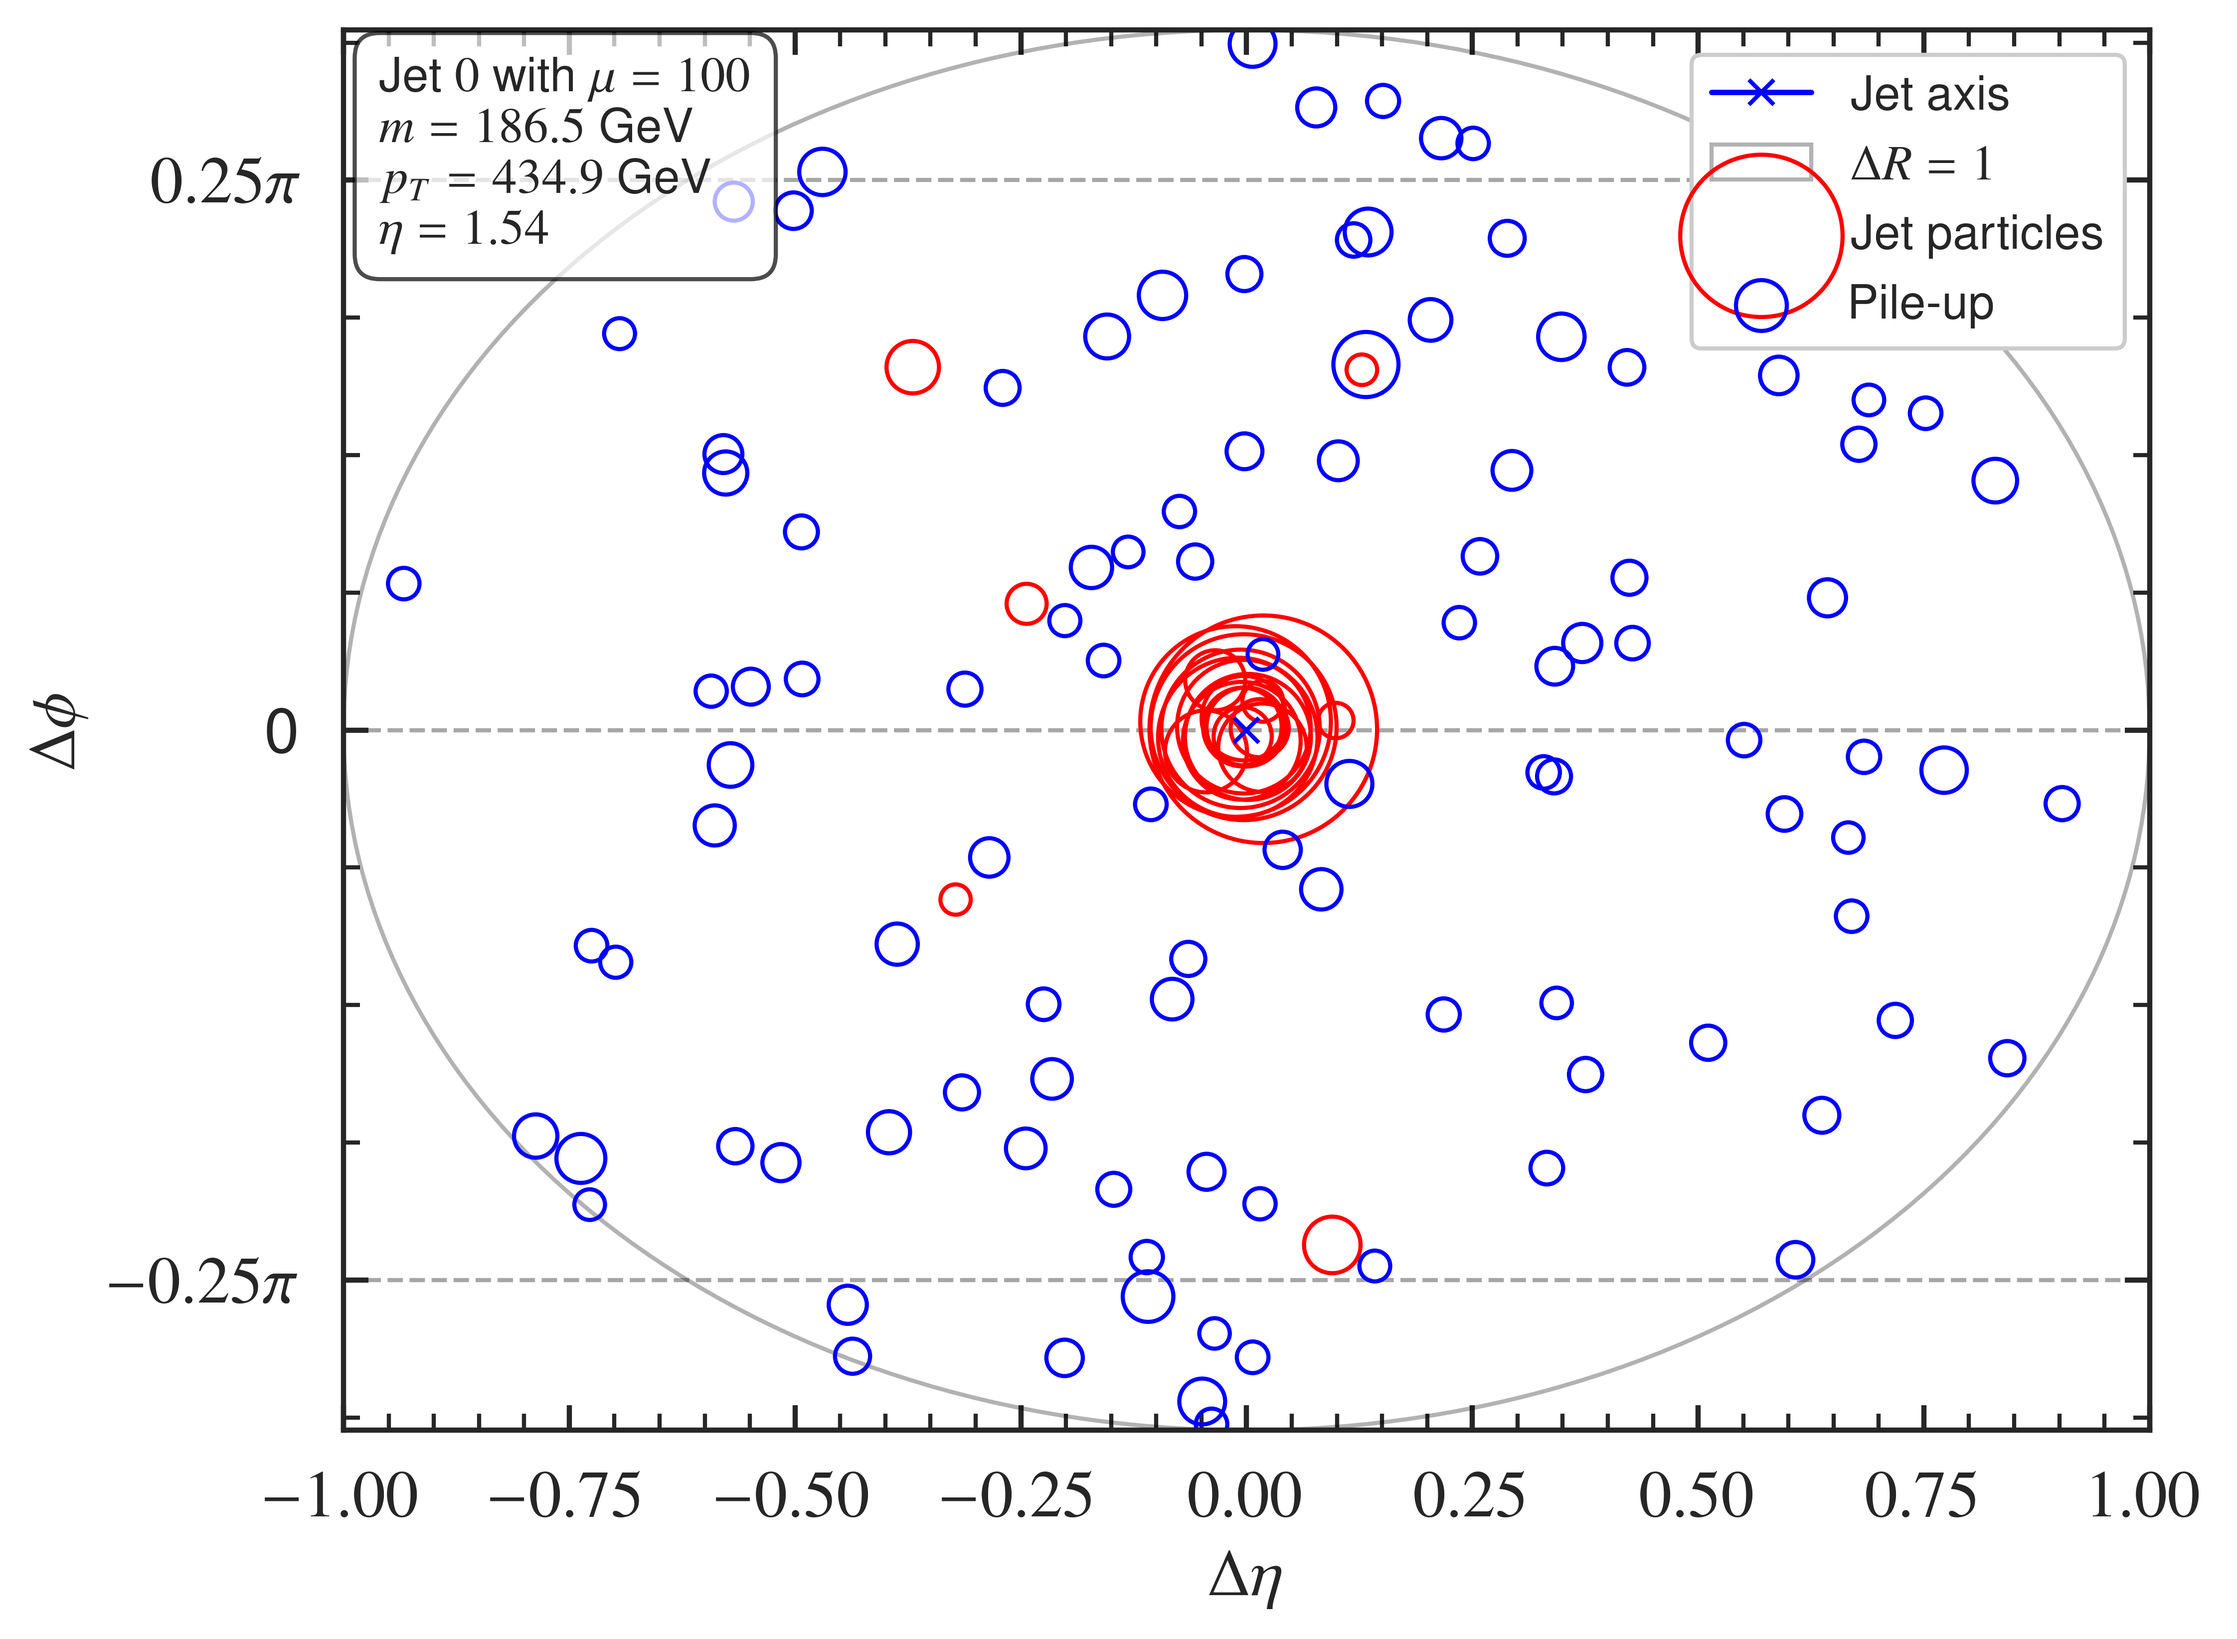
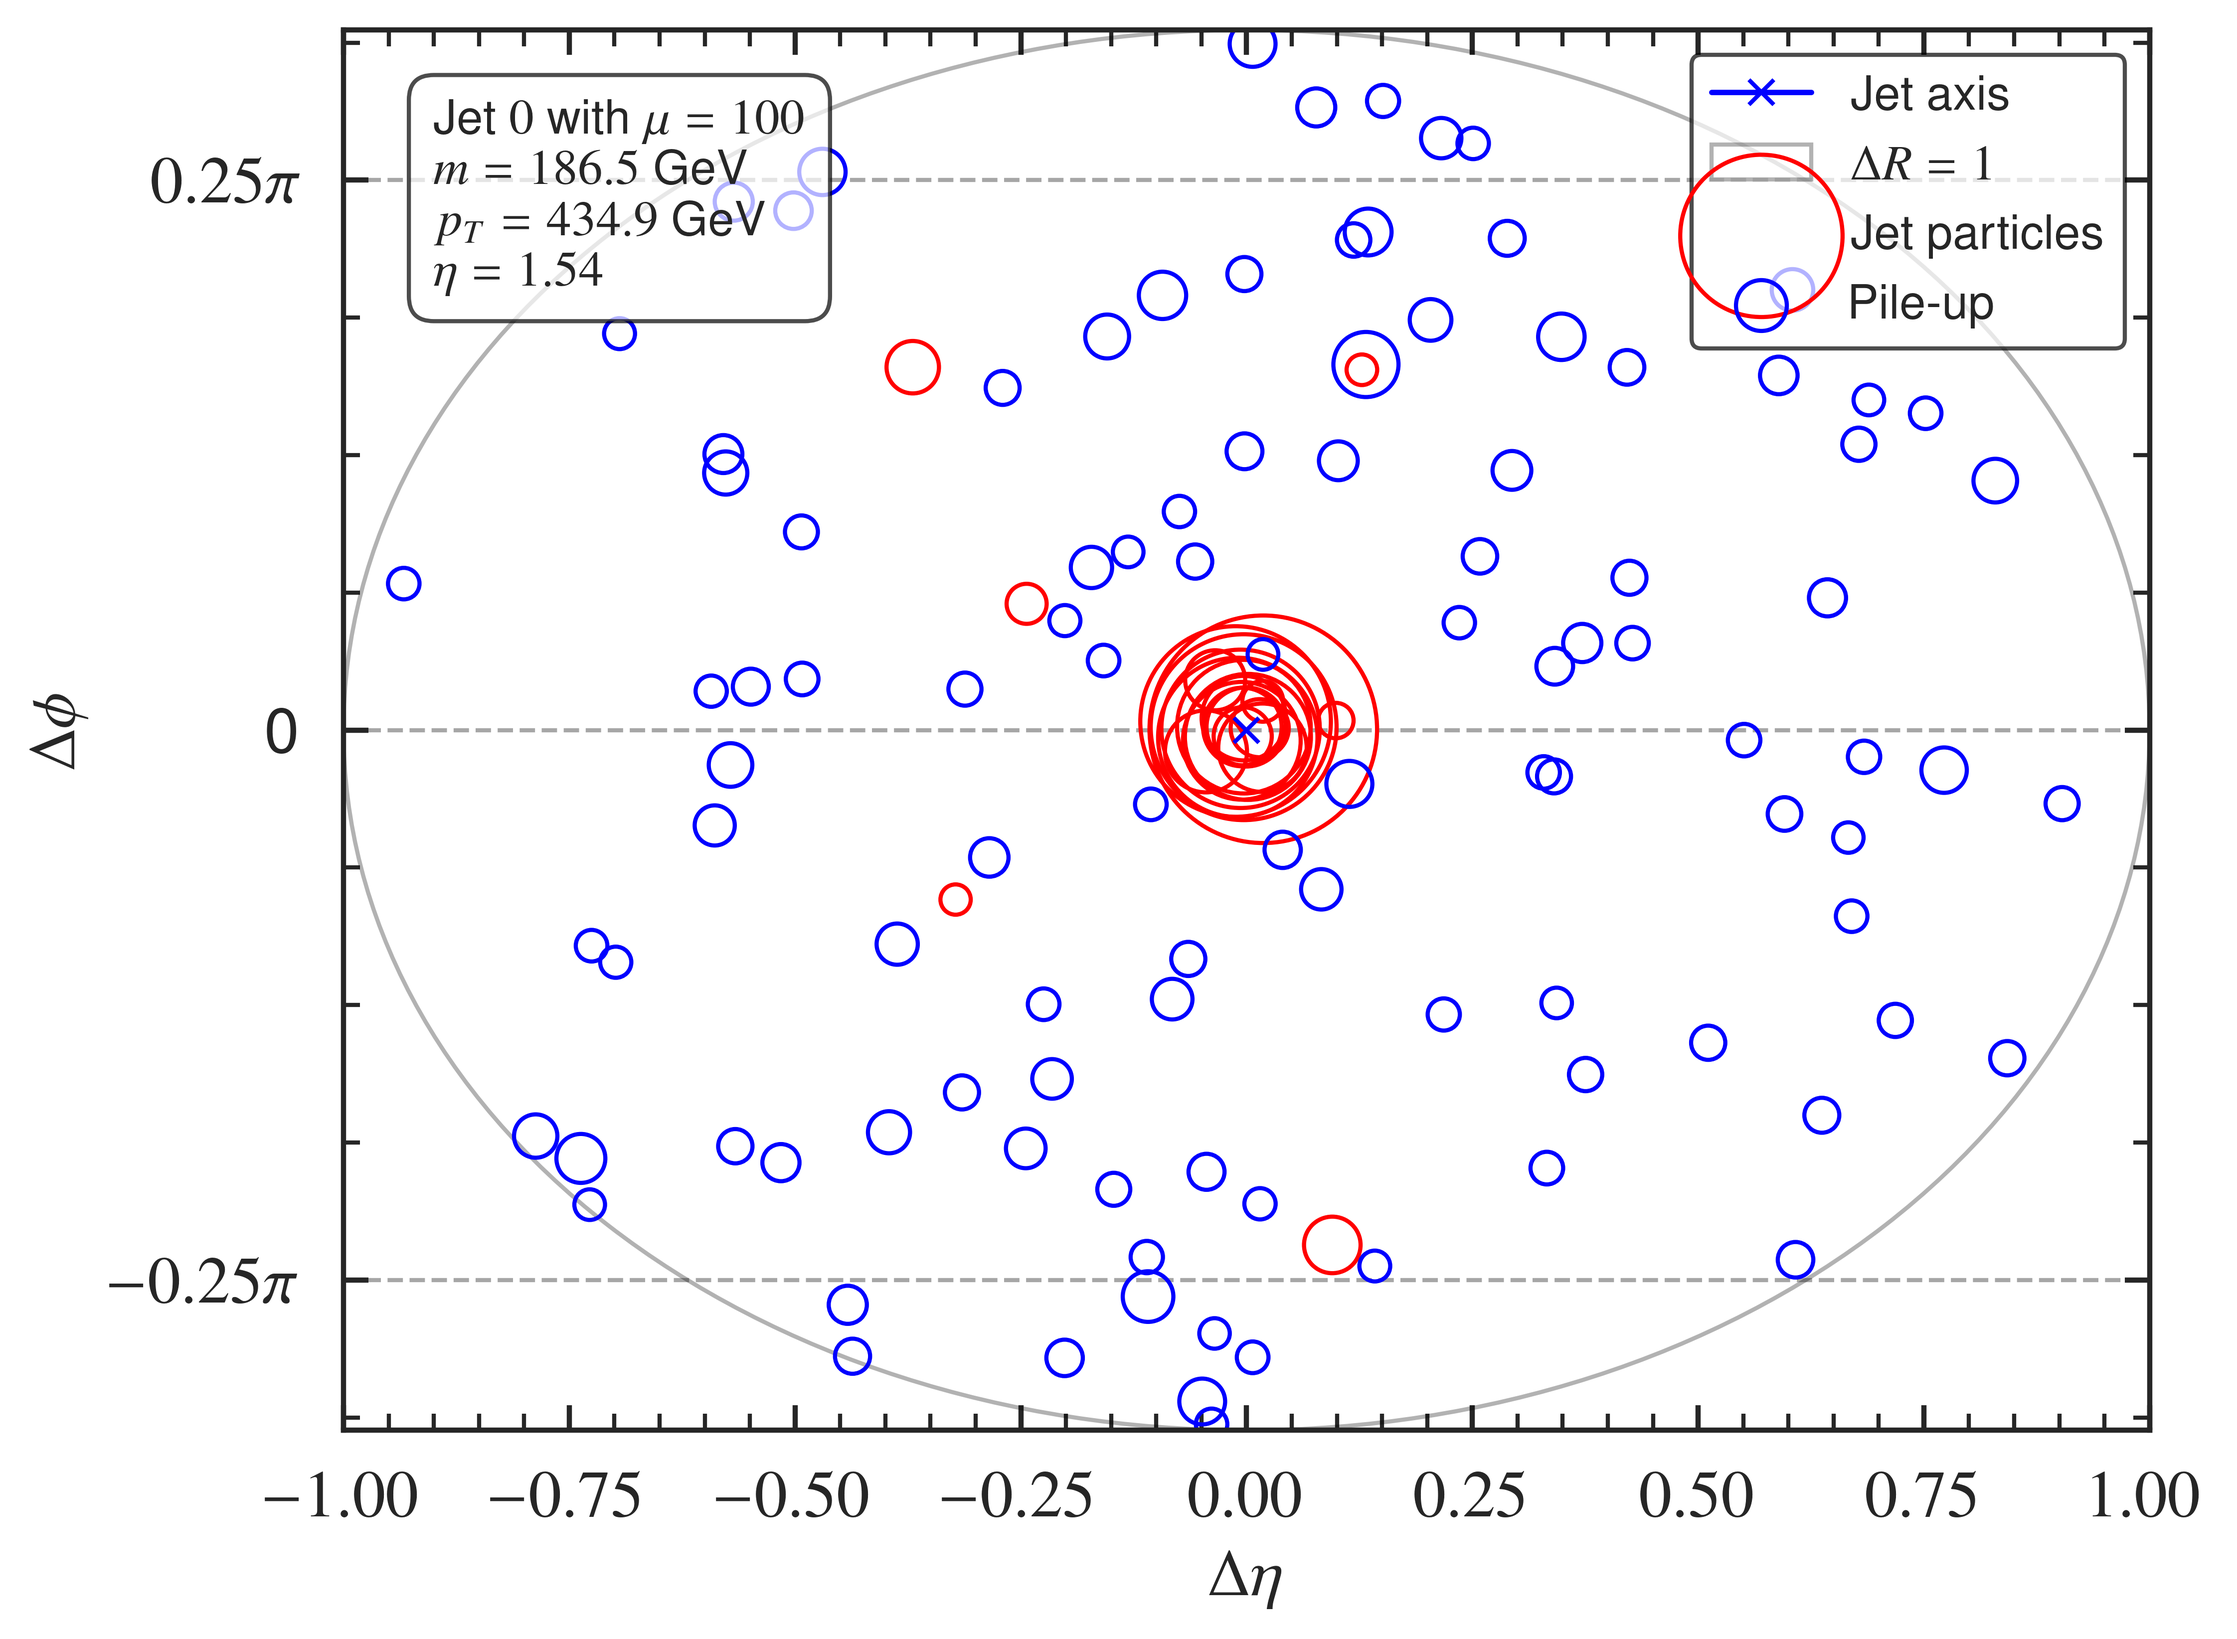
Move visualisation into a NoisyGenerator method.

diff --git a/DDPMLHC/dataset_ops/data_loading.py b/DDPMLHC/dataset_ops/data_loading.py
@@ -5,6 +5,8 @@ from DDPMLHC.dataset_ops.process_data import wrap_phi
 
 # Package imports
 import numpy as np
+import matplotlib as mpl
+import matplotlib.pyplot as plt
 
 ######################################################################################################
 
@@ -121,7 +123,6 @@ class NoisyGenerator:
     
     def __next__(self):
         if self._next_jetID == self._max_TT_no:
-            print(f"dfgh{self._next_jetID}")
             raise StopIteration
         
         self._build_next_noisy_event()
@@ -234,6 +235,85 @@ class NoisyGenerator:
         print(f"Collapsed {int(data[-1,0])} events of mu = {self.mu} data to event-level.\n"
               f"    Saved to {output_filename}.")
         return data
+
+
+
+    def visualise_current_event(self, save_path=None, particle_scale_factor=3000):
+        """Plot the current event in eta-phi space.
+        TODO: fix red circle in legend, make legend and info text same style and equidistant from edges.
+        """
+        if self.current_event.size == 0:
+            raise RuntimeError("No event loaded to plot")
+
+        # Setup plot
+        fig, ax = plt.subplots(figsize=(8, 6))
+        ax.set_xlabel("$\Delta\eta$", fontsize=16)
+        ax.set_ylabel("$\Delta\phi$", fontsize=16)
+        
+        # Configure y-axis ticks
+        ax.yaxis.set_major_locator(mpl.ticker.MultipleLocator(base=np.pi / 4))
+        ax.yaxis.set_major_formatter(
+            mpl.ticker.FuncFormatter(
+                lambda val, pos: f"${val/np.pi}\pi$" if val != 0 else "0"
+            )
+        )
+        ax.grid(axis="y", linestyle="--", color="gray", alpha=0.7)
+        
+        # Plot jet center and boundary
+        ax.plot(0, 0, marker="x", color="blue", label="Jet axis")
+        ax.add_patch(plt.Circle((0,0), 1.0, color="black", linewidth=1, 
+                            fill=False, label="$\Delta R = 1$", alpha=0.3))
+
+        # Calculate marker sizes based on pT
+        sizes = particle_scale_factor * self.p_Ts / np.max(self.p_Ts)
+        
+        # Plot particles
+        jet_mask = self.LIDs == 0
+        ax.scatter(self.etas[jet_mask], self.phis[jet_mask], 
+                s=sizes[jet_mask], facecolors='none', color="red", alpha=1, label="Jet particles",
+                linewidth=1,
+                )
+        ax.scatter(self.etas[~jet_mask], self.phis[~jet_mask], 
+                s=sizes[~jet_mask], facecolors='none', color="blue", alpha=1, label="Pile-up")
+        
+        text_box_style = dict(
+            facecolor='white',
+            edgecolor='black',
+            alpha=0.7,
+            pad=0.5,
+            boxstyle='round'
+        )
+
+        # Event info top left
+        ax.text(0.05, 0.95, 
+                f"Jet ${int(self.event_id)}$ with $\mu = {self.mu}$\n"
+                f"$m = {self.event_mass:.1f}$ GeV\n"
+                f"$p_T = {self.event_pT:.1f}$ GeV\n"
+                f"$\eta = {self.event_eta:.2f}$",
+                transform=ax.transAxes,
+                verticalalignment="top",
+                fontsize=12,
+                bbox=text_box_style,
+                )
+        
+        # Legend top right
+        legend = ax.legend(fontsize=12, 
+                          bbox_to_anchor=(1, 1),
+                          loc='upper right',
+                          bbox_transform=ax.transAxes)
+        # Style the legend box to match the text box
+        frame = legend.get_frame()
+        frame.set_facecolor('white')
+        frame.set_edgecolor('black')
+        frame.set_alpha(0.7)
+    
+        plt.tight_layout()
+        
+        # Save plot
+        filename = f"event{self._next_jetID-1}_mu{self.mu}"
+        plt.savefig(f"{save_path}/{filename}.png", bbox_inches='tight')
+        plt.close()
+
 
 
     # Getters for quantity arrays

diff --git a/DDPMLHC/main_rs.py b/DDPMLHC/main_rs.py
@@ -26,19 +26,12 @@ print("FINISHED loading data\n")
 
 #################################################################################
 
-mus = [0, 1, 3, 5, 10, 15, 30, 50, 75, 100, 125, 150, 175, 200]
-mus = [0, 1, 3, 5, 10, 15, 30, 50]
+# mus = [0, 1, 3, 5, 10, 15, 25, 30, 50, 75, 100, 125, 150, 175, 200]
+# for mu in mus:
+#     cur_generator = NoisyGenerator(tt, pile_up, mu=mu)
+#     cur_generator.save_event_level_data()
+#     plot_1d_histograms(mu=mu)
 
-for mu in mus:
-    cur_generator = NoisyGenerator(tt, pile_up, mu=mu)
-    cur_generator.save_event_level_data()
-    plot_1d_histograms(mu=mu)
-
-#################################################################################
-
-# ## WEIRD BEHAVIOUR
-# FOO = NoisyGenerator(tt, pile_up, mu=5)
-# for idx, item in enumerate(FOO):
-#     print(idx)
-#     # if idx == 5: break
-# print(FOO._max_TT_no)
+generator = NoisyGenerator(tt, pile_up, mu=100)
+next(generator)  # Load first event
+generator.visualise_current_event(save_path=f"{CWD}/data/plots/visualise")  # Plot it
